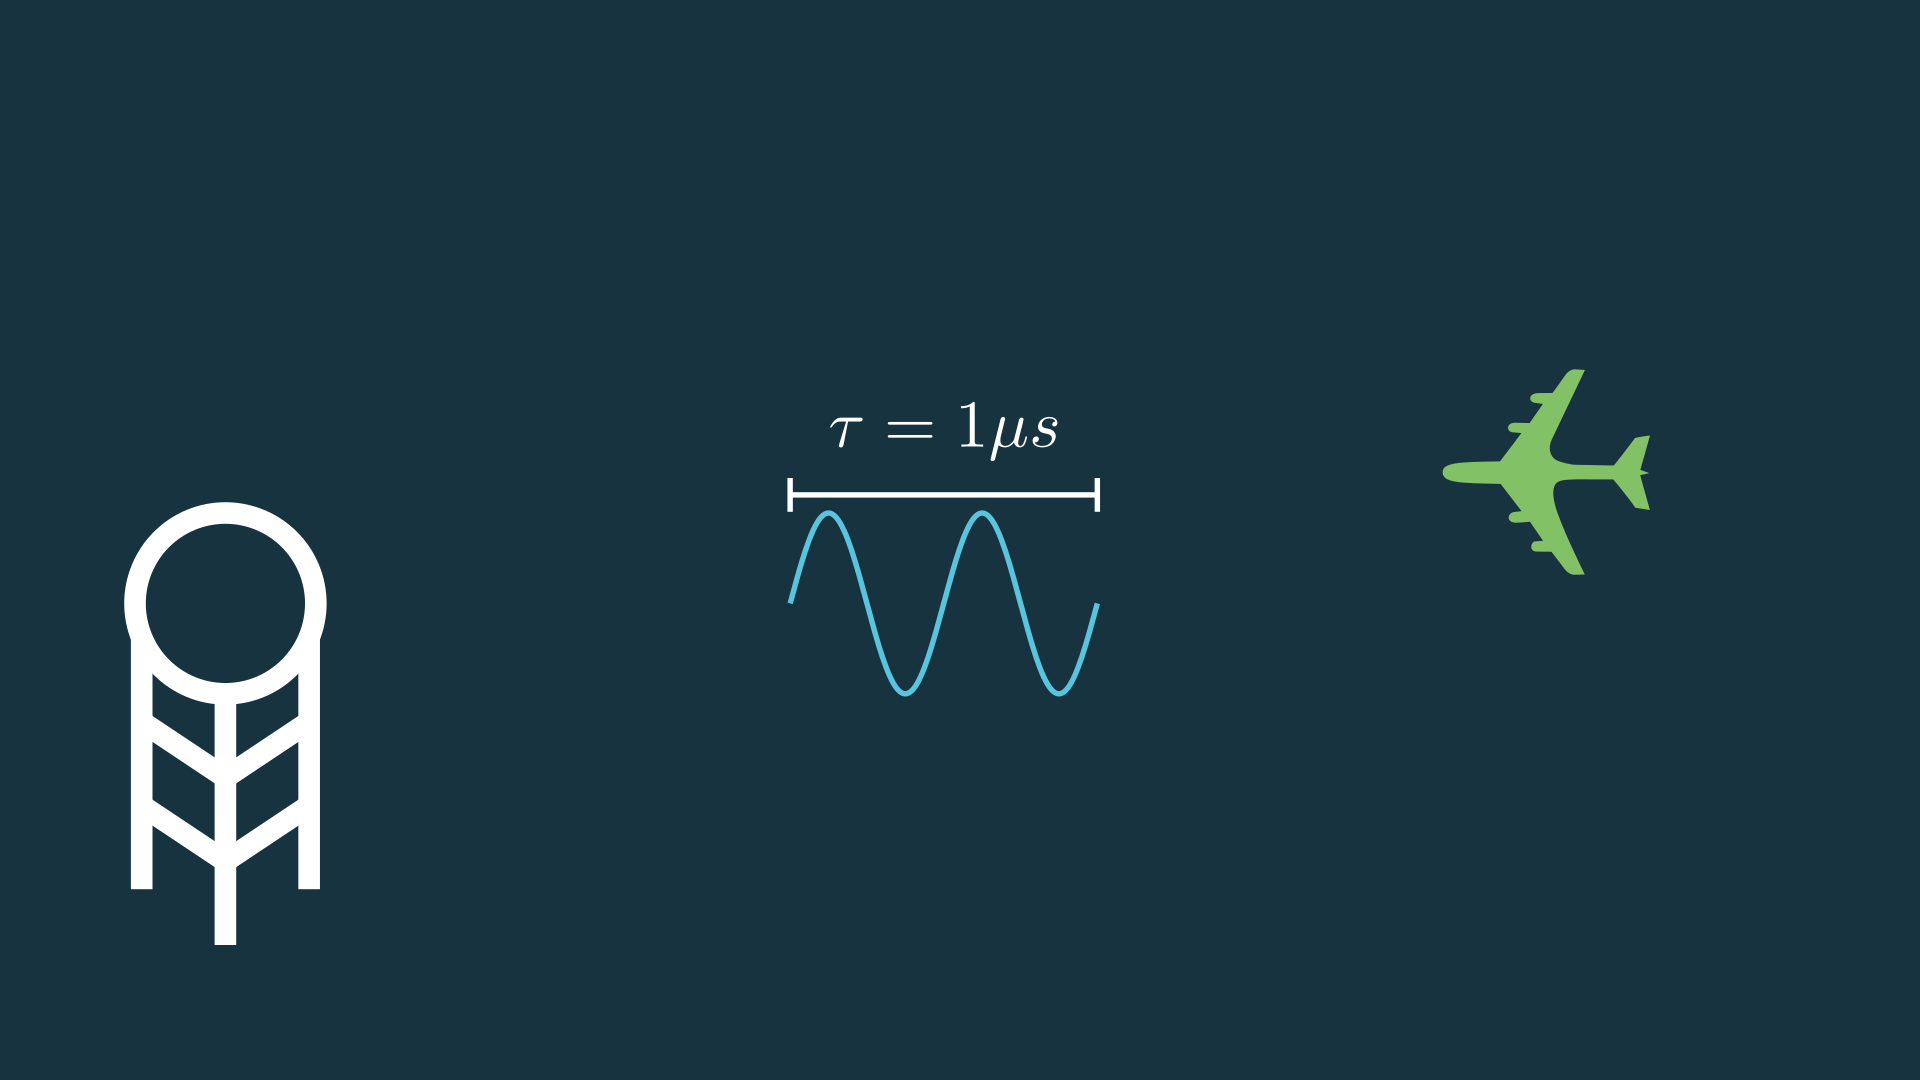
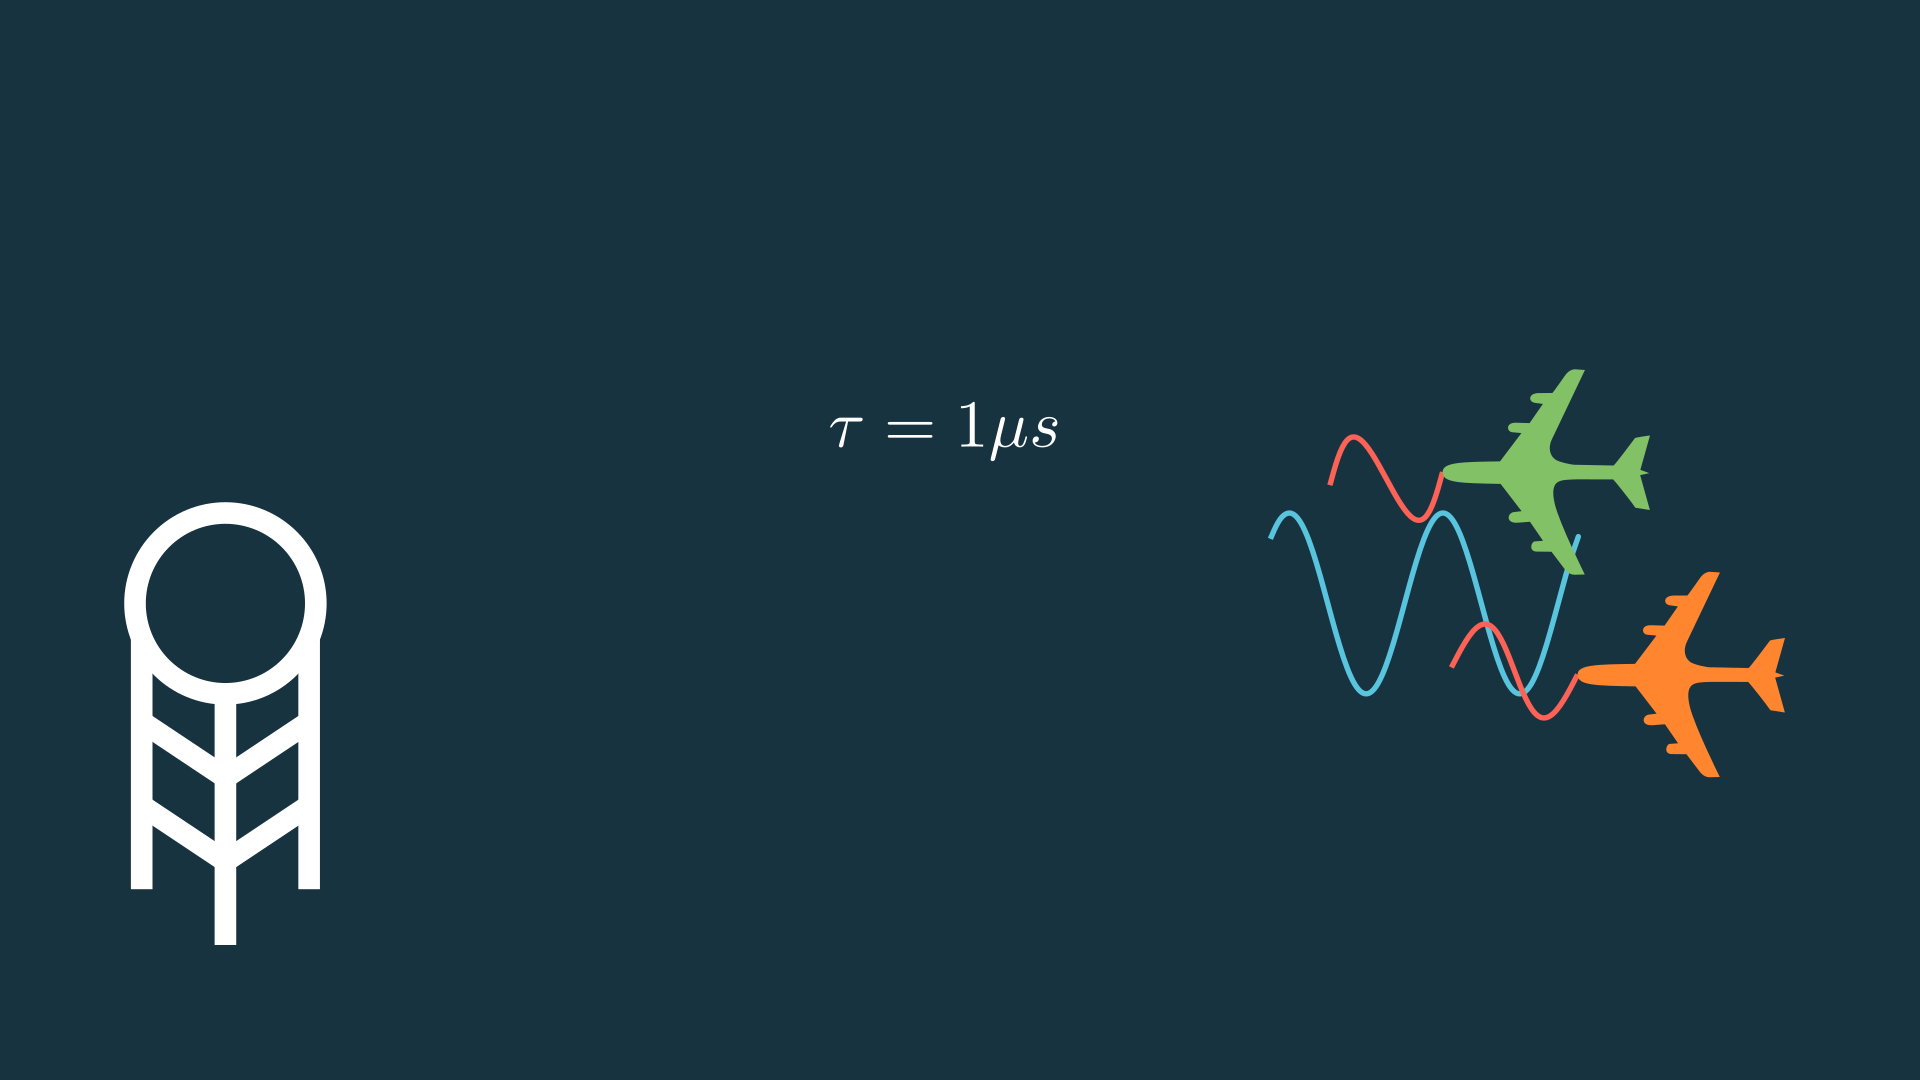
Some cool reflections :)

diff --git a/09_resolution/resolution.py b/09_resolution/resolution.py
@@ -76,6 +76,20 @@ class RangeResolution(Scene):
             .set_opacity(0)
         )
         target1_ax.shift(target1.get_left() - target1_ax.c2p(0, 0))
+
+        target2_line = Line(target2.get_left(), radar.radome.get_right())
+        target2_ax = (
+            Axes(
+                x_range=[0, 1, 0.5],
+                y_range=[-1, 1, 0.5],
+                tips=False,
+                x_length=target2_line.get_length(),
+                y_length=radar.radome.height,
+            )
+            .rotate(target2_line.get_angle())
+            .set_opacity(0)
+        )
+        target2_ax.shift(target2.get_left() - target2_ax.c2p(0, 0))
         # self.add(target1_ax)
         # self.add(ax, target)
         xmax = VT(0)
@@ -92,12 +106,19 @@ class RangeResolution(Scene):
         )
         rx1 = always_redraw(
             lambda: target1_ax.plot(
-                lambda t: np.sin(2 * PI * f * t),
+                lambda t: 0.5 * np.sin(2 * PI * f * t),
                 x_range=[max(0, ~xmax_t1 - pw), ~xmax_t1, 1 / 200],
                 color=RX_COLOR,
             )
         )
-        self.add(tx, rx1)
+        rx2 = always_redraw(
+            lambda: target2_ax.plot(
+                lambda t: 0.5 * np.sin(2 * PI * f * t),
+                x_range=[max(0, ~xmax_t2 - pw), ~xmax_t2, 1 / 200],
+                color=RX_COLOR,
+            )
+        )
+        self.add(tx, rx1, rx2)
 
         radar.vgroup.set_z_index(1)
 
@@ -154,6 +175,24 @@ class RangeResolution(Scene):
                 lag_ratio=0.15,
             ),
         )
+
+        self.wait(0.5)
+
+        self.play(FadeOut(pw_line, pw_line_l, pw_line_r, pw_label_val))
+
+        self.wait(0.5)
+
+        self.play(
+            LaggedStart(
+                xmax @ (ax.p2c(target2.get_left())[0]),
+                xmax_t1 @ (pw / 2),
+                lag_ratio=0.4,
+            )
+        )
+
+        self.wait(0.5)
+
+        self.play(target2.shift(RIGHT * 8).animate.shift(LEFT * 8), xmax_t2 @ (pw / 2))
 
         # self.add(pw_label_val)
 
